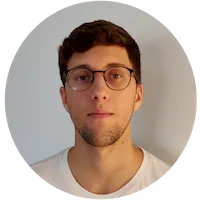
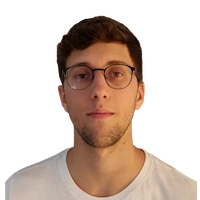
header img changed to png

diff --git a/src/App.css b/src/App.css
@@ -243,7 +243,7 @@ header:before {
   transition: all 1s ease-in-out;
 }
 
-header img {
+header .faceContainer {
   width: 200px;
   height: 200px;
   -webkit-transition: all 1s ease-in-out;
@@ -255,6 +255,15 @@ header img {
           transform: translate(-50%, -50%);
   -webkit-transition-delay: 0.3s;
           transition-delay: 0.3s;
+  overflow: hidden;
+  border-radius: 50%;
+  background: -webkit-gradient(linear, left top, left bottom, from(#7af2ff), color-stop(50%, #7af2ff), to(#2f9ca8));
+  background: linear-gradient(180deg, #7af2ff 0%, #7af2ff 50%, #2f9ca8 100%);
+}
+
+header img {
+  width: 100%;
+  height: 100%;
 }
 
 header .typewriter {
@@ -296,11 +305,11 @@ header .toggler {
 }
 
 .sticky {
-  height: 110px;
+  height: 100px;
 }
 
 .sticky header {
-  height: 110px;
+  height: 100px;
 }
 
 .sticky header::before {
@@ -313,13 +322,14 @@ header .toggler {
   transition: opacity 0.3s ease-in-out 0s;
 }
 
-.sticky header img {
-  width: 100px;
-  height: 100px;
+.sticky header .faceContainer {
+  width: 90px;
+  height: 90px;
   left: 60px;
   -webkit-transition-delay: 0s;
           transition-delay: 0s;
   cursor: pointer;
+  border-radius: 50%;
 }
 
 .sticky header .typewriter {
@@ -327,7 +337,7 @@ header .toggler {
   background: linear-gradient(90deg, #7fffd4 0%, #7af2ff 50%, #2f9ca8 100%);
   background-clip: text;
   -webkit-text-fill-color: transparent;
-  top: 55px;
+  top: 50px;
   left: 230px;
   -webkit-transition-delay: 0.25s;
           transition-delay: 0.25s;
@@ -569,7 +579,7 @@ header .toggler {
   .sticky header .typewriter h1 {
     font-size: 20px;
   }
-  .sticky header img {
+  .sticky header .faceContainer {
     width: 80px;
     height: 80px;
   }
@@ -2025,6 +2035,10 @@ header .toggler {
 
 .dark-mode .headerContainer header .typewriter h1 {
   color: #272727;
+}
+
+.dark-mode .sticky .faceContainer {
+  background: rgba(255, 255, 255, 0.1);
 }
 
 .dark-mode .education .timeline .educationFirst:checked ~ ul .l1,

diff --git a/src/components/_header.scss b/src/components/_header.scss
@@ -92,7 +92,7 @@ header {
     transition: all 1s ease-in-out;
   }
 
-  img {
+  .faceContainer {
     width: 200px;
     height: 200px;
     transition: all 1s ease-in-out;
@@ -101,6 +101,19 @@ header {
     left: 50%;
     transform: translate(-50%, -50%);
     transition-delay: 0.3s;
+    overflow: hidden;
+    border-radius: 50%;
+    background: linear-gradient(
+      180deg,
+      $accent 0%,
+      $accent 50%,
+      $accent-darker 100%
+    );
+  }
+
+  img {
+    width: 100%;
+    height: 100%;
   }
 
   .typewriter {
@@ -136,10 +149,10 @@ header {
 }
 
 .sticky {
-  height: 110px;
+  height: 100px;
 
   header {
-    height: 110px;
+    height: 100px;
 
     &::before {
       opacity: 1;
@@ -150,19 +163,20 @@ header {
       transition: opacity 0.3s ease-in-out 0s;
     }
 
-    img {
-      width: 100px;
-      height: 100px;
+    .faceContainer {
+      width: 90px;
+      height: 90px;
       left: 60px;
       transition-delay: 0s;
       cursor: pointer;
+      border-radius: 50%;
     }
 
     .typewriter {
       background: $gradient;
       background-clip: text;
       -webkit-text-fill-color: transparent;
-      top: 55px;
+      top: 50px;
       left: 230px;
       transition-delay: 0.25s;
       cursor: pointer;
@@ -289,7 +303,7 @@ $logo-size: 50px;
         }
       }
 
-      img {
+      .faceContainer {
         width: 80px;
         height: 80px;
       }

diff --git a/src/components/Header.js b/src/components/Header.js
@@ -65,12 +65,14 @@ export default function Header() {
         </div>
       </animated.div>
       <header>
-        <WebPicture
-          onClick={scrollTop}
-          src={faceImg.face_original}
-          srcWebp={faceImg.face}
-          srcType={faceImg.faceType}
-        />
+        <div className="faceContainer">
+          <WebPicture
+            onClick={scrollTop}
+            src={faceImg.face_original}
+            srcWebp={faceImg.face}
+            srcType={faceImg.faceType}
+          />
+        </div>
         <div className="typewriter" onClick={scrollTop}>
           <h1>
             <span className="tags">{"<h1>"}</span> POL TEDESKO MILLÁN

diff --git a/src/components/_theme.scss b/src/components/_theme.scss
@@ -24,6 +24,10 @@
     color: $dark-primary;
   }
 
+  .sticky .faceContainer {
+    background: rgba(255, 255, 255, 0.1);
+  }
+
   .education .timeline .educationFirst:checked ~ ul .l1,
   .education .timeline .educationSecond:checked ~ ul .l2,
   .education .timeline .educationThird:checked ~ ul .l3,
